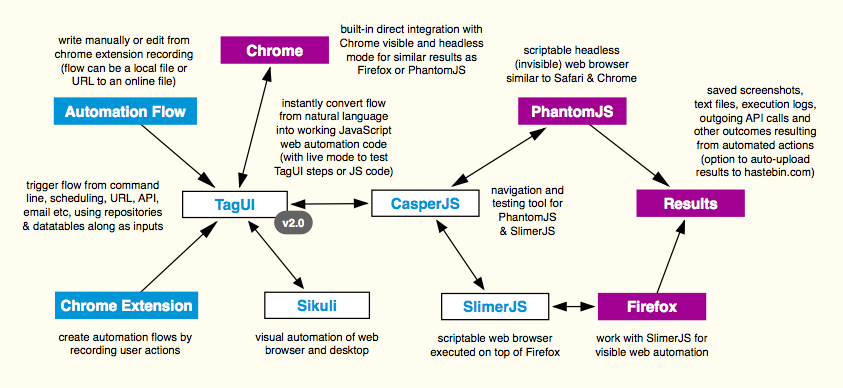
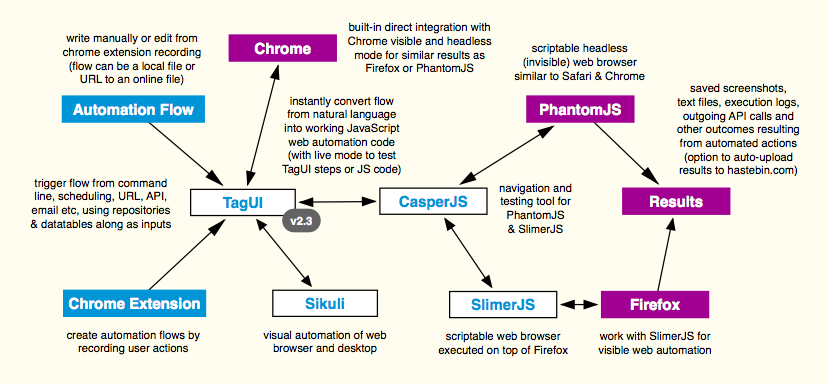
update readme, quick links and flowchart

diff --git a/README.md b/README.md
@@ -1,5 +1,9 @@
+<img src="https://raw.githubusercontent.com/tebelorg/TagUI/master/src/media/tebel_icon.png" height="111" align="right">
+
 # TagUI
-TagUI is a general purpose tool for automating web interactions ~ http://tebel.org
+[Why This](#why-this) | [Set Up](#set-up) | [To Use](#to-use) | [Cheat Sheet](#cheat-sheet) | [Developers Reference](#developers-reference)
+
+TagUI is a general purpose tool for automating web interactions
 
 ### FEATURES
 - automate Chrome, Firefox, PhantomJS
@@ -11,7 +15,9 @@ TagUI is a general purpose tool for automating web interactions ~ http://tebel.o
 - visual automation of website and desktop
 - live mode to try steps or code in real-time
 - option to auto-upload run results online
+- baseline option to capture flow benchmark
 - run by schedule, command line, API URL
+- command line assistant in natural language
 - advanced outgoing API calls to webservices
 
 # Why This
@@ -41,7 +47,7 @@ If you know JavaScript and want to be more expressive, you can even use JavaScri
 There is automatic waiting for web elements to appear + error-checking + nesting of JavaScript code blocks. Not forgetting the option to run automation flows hosted online or auto-upload run results online for sharing. TagUI also supports visual automation of website and desktop through built-in integration with Sikuli. Instead of using element identifiers, images can be used to identify user interface elements to interact with.
 
 # Set Up
-TagUI is in v2.3 (in process of being updated) and runs on macOS, Linux, Windows ([link to release notes](https://github.com/tebelorg/TagUI/releases))
+TagUI is in v2.3 (***in process of being updated***) and runs on macOS, Linux, Windows ([link to release notes](https://github.com/tebelorg/TagUI/releases))
 
 ### PACKAGED INSTALLATION
 Easiest way to use TagUI - no setup is needed, all dependencies are packaged in
@@ -106,6 +112,13 @@ Sikuli is excluded from TagUI packaged installation due to complex dependencies 
 
 ![Sample Visual Automation](https://raw.githubusercontent.com/tebelorg/Tump/master/visual_flow.gif)
 
+### CLI ASSISTANT
+TagUI scripts are already in natural-language-like syntax to convert to JavaScript code. What's even better is having natural-language-like syntax on the command line. Instead of typing `tagui download_bank_report june creditcard` to run the automation flow download_bank_report with parameters june creditcard, you can type `erina download my june creditcard bank report`. This may be more intuitive than recalling which automation filename you saved to run.
+
+The commands erina (macOS/Linux) and erina.cmd (Windows) can be renamed to some other name you like. The commands can be set up in the same way as the tagui / tagui.cmd above to be accessible from any folder. The command basically interprets this general syntax `erina single-word-action fillers options/parameters fillers single-or-multi-word-context` to call run the corresponding automation flow `action_context` with `options/parameters`.
+
+Also, adding `using chrome` / `using headless` / `using firefox` at the end will let it run using the respective browsers. The default location where automation flows are searched for is in tagui/flows folder and can be changed in tagui_helper.php. Filler words are automatically ignored as they don't convey important information ([more info](https://github.com/tebelorg/TagUI/issues/44#issuecomment-321108786)).
+
 ### FLOW SAMPLES
 Following automation flow samples ([tagui/src/samples folder](https://github.com/tebelorg/TagUI/tree/master/src/samples)) are included with TagUI
 
@@ -137,7 +150,7 @@ Step|Parameters (separator in bold)|Purpose
 http(s)://|just enter full url of webpage ('+variable+' for variable)|go to specified webpage
 tap / click|element to click|click on an element
 hover / move|element to hover|move cursor to element
-type / enter|element ***as*** text ([enter] = enter, [clear] = clear)|enter element as text
+type / enter|element ***as*** text ([enter] = enter, [clear] = clear field)|enter element as text
 select / choose|element to select ***as*** option value to select|choose dropdown option
 read / fetch|element to read (page = webpage) ***to*** variable name|fetch element text to variable
 show / print|element to read (page = webpage, ie raw html) |print element text to output
@@ -145,7 +158,7 @@ save|element (page = webpage) ***to*** optional filename|save element text to fi
 echo|text (in quotation marks) and variables|print text/variables to output
 dump|text and variables ***to*** optional filename|save text/variables to file
 snap|element (page = webpage) ***to*** optional filename|save screenshot to file
-upload|element (CSS selector) ***as*** filename to upload|upload file to website
+upload|element (CSS selector only) ***as*** filename to upload|upload file to website
 download|url to download ***to*** filename to save|download from url to file
 receive|url keyword to watch ***to*** filename to save|receive resource to file
 wait|optional time in seconds (default is 5 seconds)|explicitly wait for some time
@@ -157,7 +170,7 @@ popup|url keyword of popup window to look for|next step or block in popup window
 api|full url (including parameters) of api call|call api save response to api_result
 dom|javascript code for document object model|run code in dom save to dom_result
 js|javascript statements (skip auto-detection)|treat as JS code explicitly
-timeout|time in seconds before step times out|change auto-wait timeout
+timeout|time in seconds before step errors out|change auto-wait timeout
 variable_name| = value (for text, put in quotes, use + to concat)|define variable variable_name
 // (on new line)|user comments (ignored during execution)|add user comments
 
@@ -219,7 +232,7 @@ direction|BUY|SELL|BUY
 # Developers Reference
 TagUI is a young tool and it tries to do the specific task of automating web interactions very well (especially process automation). It's designed to make prototyping, deployment and maintenance of web automation easier by minimizing iteration time for each phase. While TagUI can be used for test automation or data-scraping, there are other popular open-source tools which may be better fits for these goals.
 
-For test automation, there are very established open-source tools/frameworks with mature and supportive ecosystems. You can find out more what's current from resources such as this [test automation list](https://github.com/atinfo/awesome-test-automation). For data-scraping, there are various open-source projects just to handle that very well. You can find out more by searching [crawler topic on GitHub](https://github.com/search?utf8=✓&q=topic%3Acrawler&type=Repositories). There's even a tool for extracting and curating articles, [how cool is that](https://github.com/codelucas/newspaper).
+For test automation, there are very established open-source tools/frameworks with mature and supportive ecosystems. You can find out more what's current from resources such as this [test automation list](https://github.com/atinfo/awesome-test-automation). For data-scraping, there are various open-source projects just to handle that very well. You can find out more by searching [crawler topic on GitHub](https://github.com/search?utf8=✓&q=topic%3Acrawler&type=Repositories).
 
 ### API
 Automation flows can also be triggered via API URL. TagUI has an API service and runner for managing a queue of incoming requests via API. To set up, add a crontab entry on your server with the desired frequency to check and process incoming service requests. Below will check every 15 minutes and run pending flows in the queue. If there's an automation in progress, TagUI will wait for the next check instead of concurrently starting a new run.
@@ -234,7 +247,7 @@ your_website_url/tagui_service.php?SETTINGS="flow_filename option(s)"
 
 Besides integrating with web applications, TagUI can be extended to integrate with hardware (eg Arduino or Raspberry Pi) for physical world interactions or machine learning service providers for AI decision-making ability. Input parameters can be sent to an automation flow to be used as variables p1 to p9. Output parameters from an automation flow can be sent to your Arduino or application API URL (see samples 3_github and 6C_datatables).
 
-For making outgoing API calls in your automation flow, to feed data somewhere or send emails etc, use the api step followed by full URL (including parameters) of the API call. Raw response from API will be saved in api_result variable. If the API response is JSON data, the variable api_json will be created for easy access to JSON data elements. If not, api_json will be null. For example, api_json.parent_element.child_element retrieves value of child_element.
+For making outgoing API calls in your automation flow, to feed data somewhere or send emails etc, use the api step followed by full URL (including parameters) of the API call. Raw response from API will be saved in `api_result` variable. If the API response is JSON data, the variable `api_json` will be created for easy access to JSON data elements. If not, `api_json` will be null. For example, `api_json.parent_element.child_element` retrieves value of child_element.
 
 ```js
 api_config = {method:'PUT', header:['Header1: value1','Header2: value2'], body:{'id':123,'pwd':'abc'}};
@@ -244,9 +257,9 @@ For advanced API calls, you can set above api_config variable which defaults as 
 ### CHROME
 TagUI has built-in integration with Chrome web browser to run web automation in visible or headless mode. It uses a websocket connection to directly communicate automation JavaScript code and information to Chrome.
 
-To develop new custom methods for Chrome integration, see this [TagUI issue](https://github.com/tebelorg/TagUI/issues/24#issuecomment-312361674) and [tagui_header.js](https://github.com/tebelorg/TagUI/blob/master/src/tagui_header.js) for examples of websocket calls from TagUI to Chrome (via Chrome Debugging Protocol). The function chrome_step(method, params) sends message to Chrome and returns the response. You will see examples from simple websocket calls such as getting webpage title to stacked ones such as handling of frame or popup window. To tweak how TagUI launches / kills Chrome and the integration PHP process, see TagUI runner script for [macOS/Linux](https://github.com/tebelorg/TagUI/blob/master/src/tagui) or [Windows](https://github.com/tebelorg/TagUI/blob/master/src/tagui.cmd). 
+To develop new custom methods for Chrome integration, see this [TagUI issue](https://github.com/tebelorg/TagUI/issues/24#issuecomment-312361674) and [tagui_header.js](https://github.com/tebelorg/TagUI/blob/master/src/tagui_header.js) for examples of websocket calls from TagUI to Chrome (via Chrome Debugging Protocol). The function `chrome_step(method, params)` sends message to Chrome and returns the response. You will see examples from simple websocket calls such as getting webpage title to stacked ones such as handling of frame or popup window. To tweak how TagUI launches / kills Chrome and the integration PHP process, see TagUI runner script for [macOS/Linux](https://github.com/tebelorg/TagUI/blob/master/src/tagui) or [Windows](https://github.com/tebelorg/TagUI/blob/master/src/tagui.cmd). 
 
-Probably the best way to see the websocket communication in action is to enter TagUI live mode (add live step in your automation flow), then tail -f tagui_chrome.log in another terminal to see the Chrome Debugging Protocol messages going to and fro as you enter TagUI steps or JavaScript code. If you are running on Windows, you can click on the PHP process window directly to see the messages.
+Probably the best way to see the websocket communication in action is to enter TagUI live mode (add live step in your automation flow), then `tail -f tagui_chrome.log` in another terminal to see the Chrome Debugging Protocol messages going to and fro as you enter TagUI steps or JavaScript code. If you are running on Windows, you can click on the PHP process window directly to see the messages.
 
 At run-time TagUI will start a PHP thread in the background to manage the integration with Chrome for concurrent communication. The [Textalk PHP websocket](https://github.com/Textalk/websocket-php) is used as it is super-light and most importantly, it works even without any update for 2 years. The normal approach to integrate with Chrome is through [chrome-remote-interface](https://github.com/cyrus-and/chrome-remote-interface) project or tools [such as Chromy](https://github.com/OnetapInc/chromy) which is based on chrome-remote-interface. However, that approach introduces Node.js dependency which means users without a Node.js development environment cannot run TagUI with Chrome. Outside of JavaScript ecosystem, there are also tools like [chromedp in Go language](https://github.com/knq/chromedp) to integrate with Chrome.
 
@@ -296,6 +309,11 @@ tagui.py|interface for Sikuli visual automation
 tagui.log|log for Sikuli Python transactions
 tagui_sikuli.in|interface in-file for Sikuli integration
 tagui_sikuli.out|interface out-file for Sikuli integration
+erina|natural language command line helper
+erina.cmd|same as above but for Windows platform
+tagui_helper.php|command line natural language parser
+tagui_helper|generated normal TagUI command to run
+tagui_helper.cmd|same as above but for Windows platform
 
 # Be a Force for Good
 TagUI default config does not hide identity as an automated user
